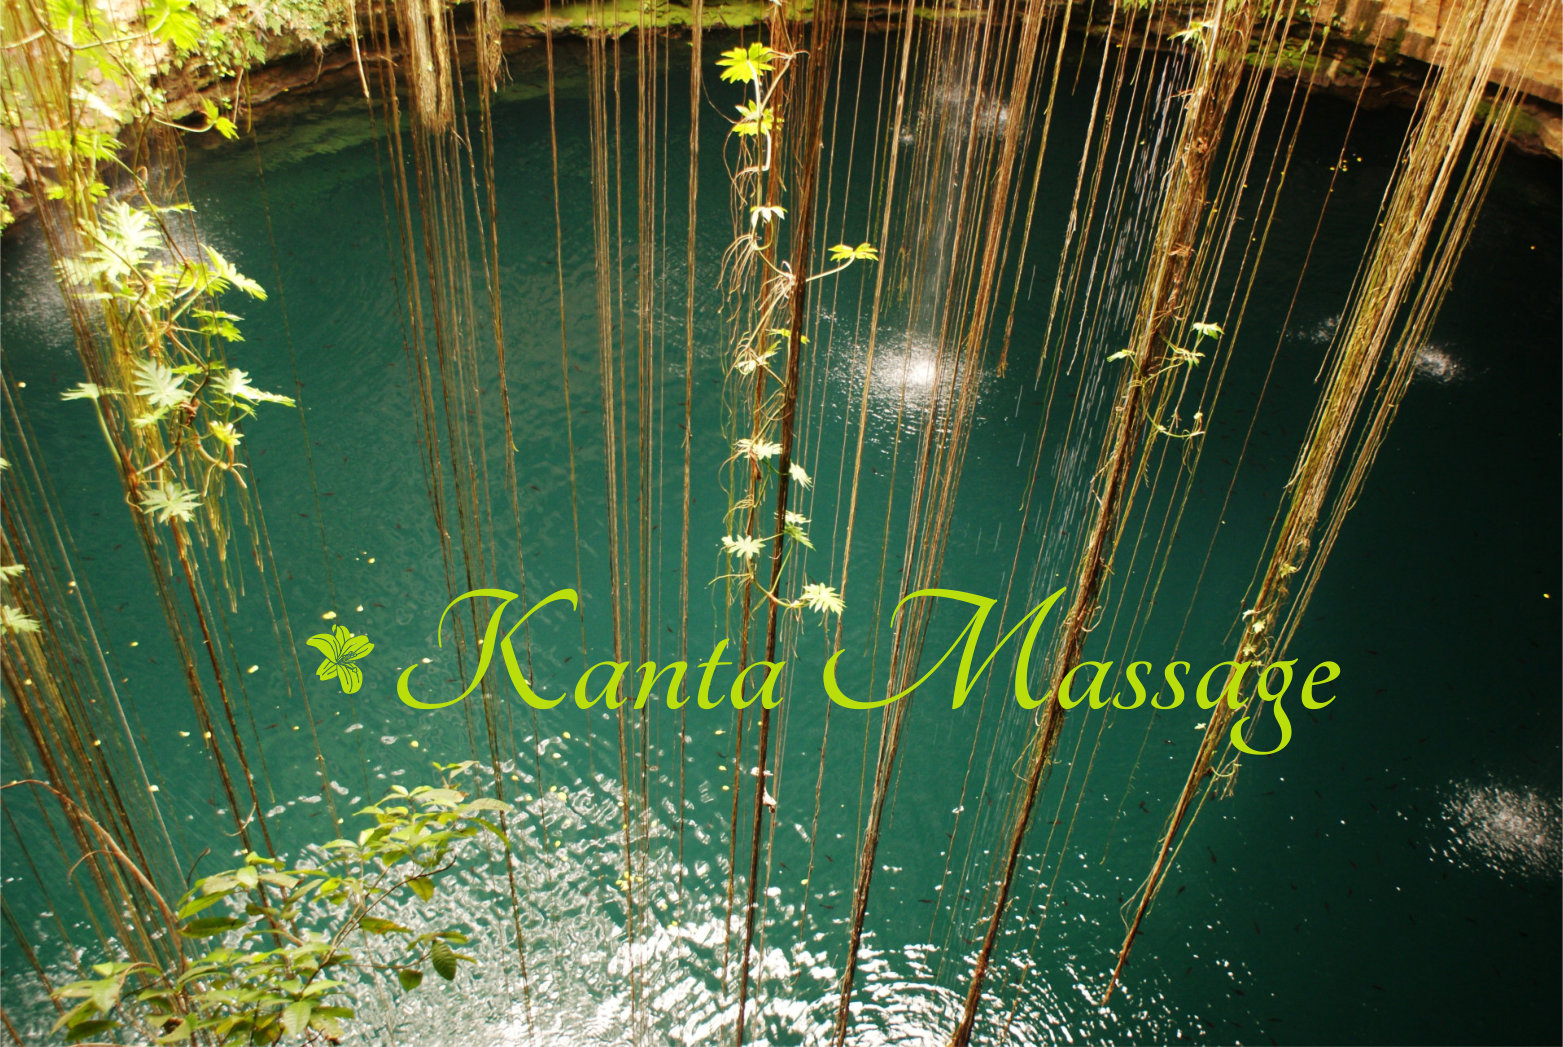
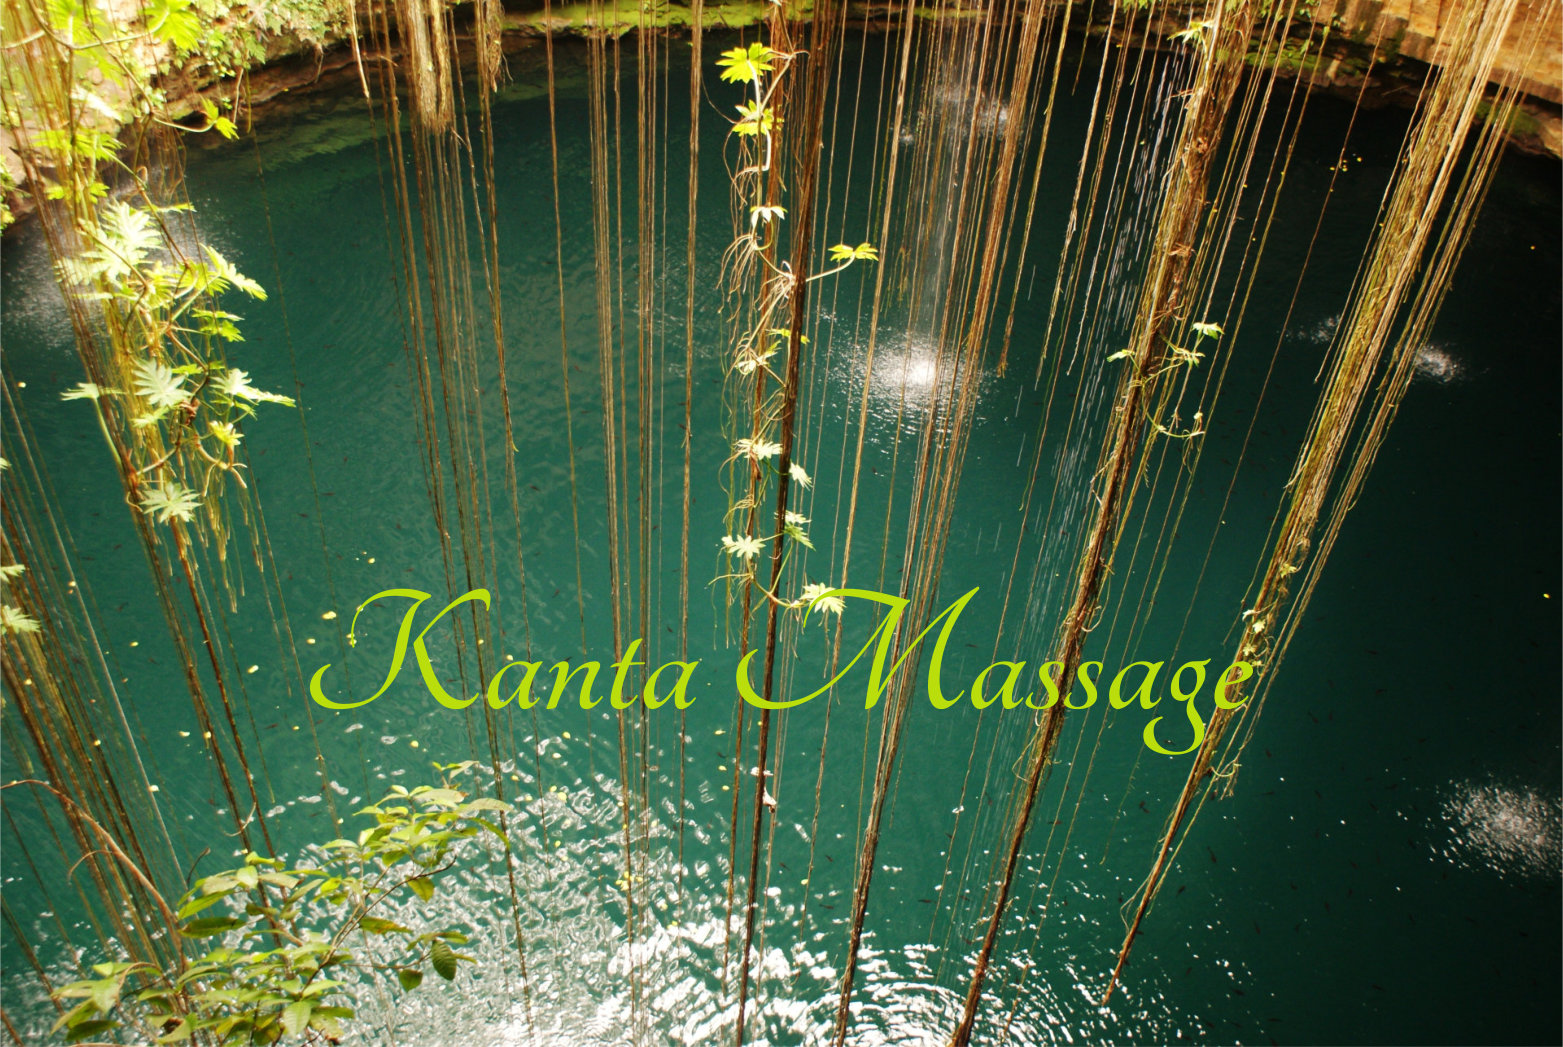
KLeine aanpassingen in uiterlijk

Changed region(s): [[0.1843, 0.5501, 0.8599, 0.7335]]

diff --git a/index.html b/index.html
@@ -124,7 +124,8 @@
 
     <!-- Container (About Section) -->
     <div class="w3-content w3-container w3-padding-64" id="about">
-        <h3 class="w3-center"><img src="favicon.png"/>Kanta Massage Nijmegen</h3>
+	    
+        <h3 class="w3-center"><img class="w3-image" src="favicon.png"/><br/>Kanta Massage Nijmegen</h3>
         <p class="w3-center"><em>Traditionele Thaise Massage</em></p>
         <p>
 		Even tijd voor uzelf maken is tegenwoordig meer noodzaak dan luxe. Een goede gezonde massage brengt u rust en kracht, zodat u alle stress van u af kunt laten glijden en met hernieuwde energie aan de slag kunt. Traditionele Thaise massage is een van de oudste geneesmethoden in de wereld. Het is erop gericht om de balans in uw lichaam en geest weer terug te brengen. 
@@ -355,8 +356,9 @@
 					<i class="fa fa-parking fa-fw w3-hover-text-black w3-xlarge w3-margin-right"></i> Ma t/m za 12.00-18.00 uur € 2,- per uur<br>
                     <i class="fa fa-whatsapp fa-fw w3-hover-text-black w3-xlarge w3-margin-right"></i> Whatsapp: +31 12345678
                     <br>
-                    <i class="fa fa-envelope fa-fw w3-hover-text-black w3-xlarge w3-margin-right"></i> Email:
-                    kantamassage@use.startmail.com<br>
+					<i class="fa fa-envelope fa-fw w3-hover-text-black w3-xlarge w3-margin-right"></i> Email:
+                    kantamassage@gmail.com<br>
+					<i class="fa fa-id-card fa-fw w3-hover-text-black w3-xlarge w3-margin-right"></i> Kvk:  88641147 <br>
                 </div>
 				<!--
                 <p>Swing by for a cup of <i class="fa fa-coffee"></i>, or leave me a note:</p>
@@ -383,12 +385,12 @@
     <footer class="w3-center w3-black w3-padding-64 w3-opacity w3-hover-opacity-off">
         <a href="#home" class="w3-button w3-light-grey"><i class="fa fa-arrow-up w3-margin-right"></i>Naar het begin</a>
         <div class="w3-xlarge w3-section">
-            <i class="fa fa-facebook-official w3-hover-opacity"></i>
-            <i class="fa fa-instagram w3-hover-opacity"></i>
-            <i class="fa fa-snapchat w3-hover-opacity"></i>
-            <i class="fa fa-pinterest-p w3-hover-opacity"></i>
-            <i class="fa fa-twitter w3-hover-opacity"></i>
-            <i class="fa fa-linkedin w3-hover-opacity"></i>
+            <a href="https://facebook.com/sharer/sharer.php?u=https%3A%2F%2Fkantamassage.nl"><i class="fa fa-facebook-official w3-hover-opacity"></i></a>
+            <!--<i class="fa fa-instagram w3-hover-opacity"></i>-->
+            <!--<i class="fa fa-snapchat w3-hover-opacity"></i>-->
+            <a href="https://pinterest.com/pin/create/button/?url=https%3A%2F%2Fkantamassage.nl&amp;media=https%3A%2F%2Fkantamassage.nl&amp;description=Kanta%20Thaise%20Massage"><i class="fa fa-pinterest-p w3-hover-opacity"></i></a>
+            <a href="https://twitter.com/intent/tweet/?text=Kanta%20Thaise%20Massage&amp;url=https%3A%2F%2Fkantamassage.nl"><i class="fa fa-twitter w3-hover-opacity"></i></a>
+            <!--<i class="fa fa-linkedin w3-hover-opacity"></i>-->
      
 	 <p class="w3-small w3-tooltip">
 	 <span class="w3-text">Deze site geeft je geen&nbsp;</span>
